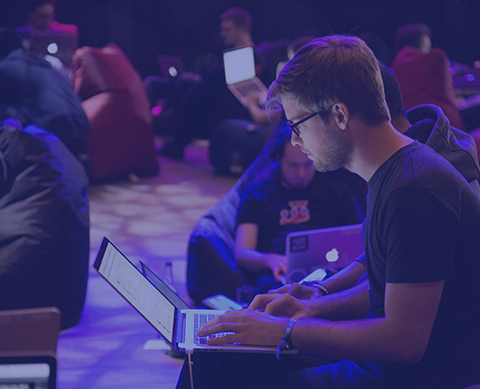
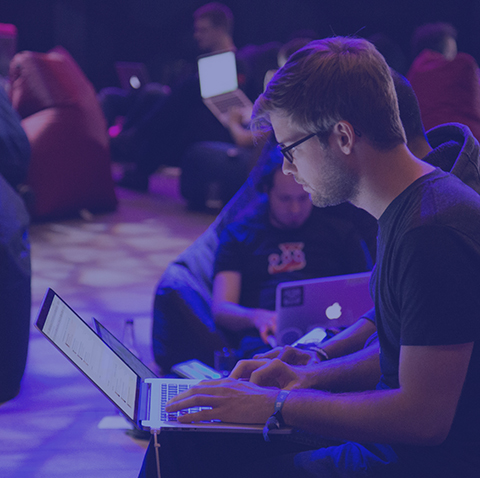
work on section2

diff --git a/src/index.css b/src/index.css
@@ -28,6 +28,9 @@ body {
   max-width: 1170px;
   min-width: 320px;
 }
+body h1, body h2, body h3, body h4, body h5 {
+  font-family: Overpass-semibold;
+}
 body a {
   text-decoration: none;
 }
@@ -47,14 +50,16 @@ body .visually-hidden {
 body .button {
   text-decoration: none;
   border-radius: 3px;
-  background: #ef6c00;
   transition: 0.3s;
   border: none;
 }
-body .button:hover {
+body .button-primary {
+  background: #ef6c00;
+}
+body .button-primary:hover {
   background: #fc831f;
 }
-body .button span {
+body .button-primary span {
   font-family: SourceSansPro-Bold;
   font-weight: 700;
   font-size: 20px;
@@ -348,7 +353,6 @@ body .button span {
   width: 550px;
 }
 .test-assignment-intro .content-wrapper h1 {
-  font-family: Overpass-semibold;
   font-size: 50.1px;
   line-height: 60px;
   margin-bottom: 4px;
@@ -363,11 +367,11 @@ body .button span {
   margin-left: 1px;
   margin-bottom: 33px;
 }
-.test-assignment-intro .content-wrapper .button {
+.test-assignment-intro .content-wrapper .button-primary {
   width: 290px;
   height: 40px;
 }
-.test-assignment-intro .content-wrapper .button span {
+.test-assignment-intro .content-wrapper .button-primary span {
   color: #fefefe;
   margin-left: 1px;
 }
@@ -443,6 +447,12 @@ body .button span {
   }
 }
 @media (max-width: 480px) {
+  .test-assignment-intro .background-wrapper {
+    background-image: url("img/imgs/bg-1-480.jpg");
+    background: -webkit-image-set(url("img/imgs/bg-1-480.jpg") 1x, url("img/imgs/bg-1-960.jpg") 2x);
+    background-position: left calc(-6px - (480px - 100vw) / 2.8) top calc(0px - (480px - 100vw) / 49.73);
+    background-size: calc(468px - (468px - 100vw) / 2.25) auto;
+  }
   .test-assignment-intro .content-wrapper {
     width: 100%;
     text-align: center;
@@ -457,6 +467,34 @@ body .button span {
   .test-assignment-intro .content-wrapper p .mobile-hide {
     display: none;
   }
+}
+.get-acquaint {
+  margin-top: 124px;
+}
+.get-acquaint h3 {
+  text-align: center;
+  font-size: 42px;
+  margin-bottom: 0;
+}
+.get-acquaint .content-wrapper {
+  display: flex;
+  justify-content: space-between;
+  width: 100%;
+  height: 350px;
+}
+.get-acquaint .content-wrapper .man-mobile-img {
+  background-image: url("img/imgs/man-mobile.svg");
+  background-position: left 1px top 1px;
+  background-size: 200px;
+  background-repeat: no-repeat;
+  flex-grow: 1;
+}
+.get-acquaint .content-wrapper .text-acquaint {
+  width: 65.75%;
+}
+.get-acquaint .content-wrapper .text-acquaint h5 {
+  margin-top: 33px;
+  font-size: 26px;
 }
 
 /*# sourceMappingURL=index.css.map */

diff --git a/public/index.html b/public/index.html
@@ -76,7 +76,20 @@
       <div class="content-wrapper">
         <h1>Test assignment for <span>F</span>rontend Developer position</h1>
         <p><span class="mobile-show">We kindly remind you that your test assignment should <br> be submitted as a link to github/bitbucket repository. </span><br class="between-mob-desktop"><span class="mobile-hide">Please be patient, we consider and respond to every application that meets minimum requirements. We look forward to your submission. Good luck!</span></p>
-        <button class="button"><span>Sign Up</span></button>
+        <button class="button button-primary"><span>Sign Up</span></button>
+      </div>
+    </section>
+
+    <section class="get-acquaint">
+      <h3>Let's get ac quainted</h3>
+      <div class="content-wrapper">
+        <div class="man-mobile-img"></div>
+        <div class="text-acquaint">
+          <h5>I am cool frontend developer</h5>
+          <p>When real users have a slow experience on mobile, they're much less likely to find what they are looking for or purchase from you in the future. For many sites this equates to a huge missed opportunity, especially when more than half of visits are abandoned if a mobile page takes over 3 seconds to load.</p>
+          <p>Last week, Google Search and Ads teams announced two new speed initiatives to help improve user-experience on the web. </p>
+          <button class="button"><span>Sign Up</span></button>
+        </div>
       </div>
     </section>
 

diff --git a/public/script.js b/public/script.js
@@ -15,16 +15,16 @@ window.onresize = () => {
 let resize = () => {
     let innerWidth = window.innerWidth;
     let clientWidth = document.documentElement.clientWidth;
-
+    let bgr = document.querySelector('.test-assignment-intro .background-wrapper');
     //console.log(innerWidth);  // with scroll   1041
     //console.log(clientWidth);  // without scroll  1024
 
     let diff = innerWidth - clientWidth;
     if(diff > 0 && clientWidth + diff > 1024 && clientWidth < 1024) {
-        document.querySelector('.test-assignment-intro .background-wrapper').style.backgroundPositionY = 0;
-        document.querySelector('.test-assignment-intro .background-wrapper').style.backgroundSize  = `${1326 - (1024 - clientWidth)/0.6}px`;
+        bgr.style.backgroundPositionY = 0;
+        bgr.style.backgroundSize  = `${1326 - (1024 - clientWidth)/0.6}px`;
     } else {
-        document.querySelector('.test-assignment-intro .background-wrapper').removeAttribute('style');
+        bgr.removeAttribute('style');
         document.querySelector('.test-assignment-intro').removeAttribute('style');
     }
 };

diff --git a/src/sass/global.scss b/src/sass/global.scss
@@ -34,6 +34,10 @@ body {
   max-width: $max-page-width;
   min-width: $min-page-width;
 
+  h1, h2, h3, h4, h5 {
+    font-family: Overpass-semibold;
+  }
+
   a {
     text-decoration: none;
   }
@@ -56,18 +60,21 @@ body {
   .button {
     text-decoration: none;
     border-radius: 3px;
-    background: $primary;
     transition: 0.3s;
     border: none;
 
-    &:hover { background: $primary-hover; }
+    &-primary {
+      background: $primary;
 
-    span {
-      font-family: SourceSansPro-Bold;
-      font-weight: 700;
-      font-size: 20px;
-      display: inline-block;
-      margin-bottom: 2px;
+      &:hover { background: $primary-hover; }
+
+      span {
+        font-family: SourceSansPro-Bold;
+        font-weight: 700;
+        font-size: 20px;
+        display: inline-block;
+        margin-bottom: 2px;
+      }
     }
   }
 }

diff --git a/src/sass/blocks/section-1-intro.scss b/src/sass/blocks/section-1-intro.scss
@@ -27,7 +27,6 @@
     width: 550px;
 
     h1 {
-      font-family: Overpass-semibold;
       font-size: 50.1px;
       line-height: 60px;
       margin-bottom: 4px;
@@ -45,7 +44,7 @@
       margin-bottom: 33px;
     }
 
-    .button {
+    .button-primary {
       width: 290px;
       height: 40px;
 
@@ -146,6 +145,13 @@
 
 @media (max-width: $mobile-width) {
   .test-assignment-intro {
+
+    .background-wrapper {
+      background-image: url('img/imgs/bg-1-480.jpg');
+      background: -webkit-image-set( url('img/imgs/bg-1-480.jpg') 1x, url('img/imgs/bg-1-960.jpg') 2x );
+      background-position: left calc(-6px - (480px - 100vw) / 2.8) top calc(0px - (480px - 100vw) / 49.73);
+      background-size: calc(468px - (468px - 100vw) / 2.25) auto;
+    }
 
     .content-wrapper {
       width: 100%;

diff --git a/src/sass/blocks/section-2-acquaint.scss b/src/sass/blocks/section-2-acquaint.scss
@@ -1,0 +1,33 @@
+.get-acquaint {
+  margin-top: 124px;
+
+  h3 {
+    text-align: center;
+    font-size: 42px;
+    margin-bottom: 0;
+  }
+
+  .content-wrapper {
+    display: flex;
+    justify-content: space-between;
+    width: 100%;
+    height: 350px;
+
+    .man-mobile-img {
+      background-image: url('img/imgs/man-mobile.svg');
+      background-position: left 1px top 1px;
+      background-size: 200px;
+      background-repeat: no-repeat;
+      flex-grow: 1;
+    }
+
+    .text-acquaint {
+      width: 65.75%;
+
+      h5 {
+        margin-top: 33px;
+        font-size: 26px;
+      }
+    }
+  }
+}

diff --git a/src/sass/style.scss b/src/sass/style.scss
@@ -2,4 +2,5 @@
 @import "variables";
 @import 'blocks/header';
 @import 'blocks/section-1-intro';
+@import 'blocks/section-2-acquaint';
 
